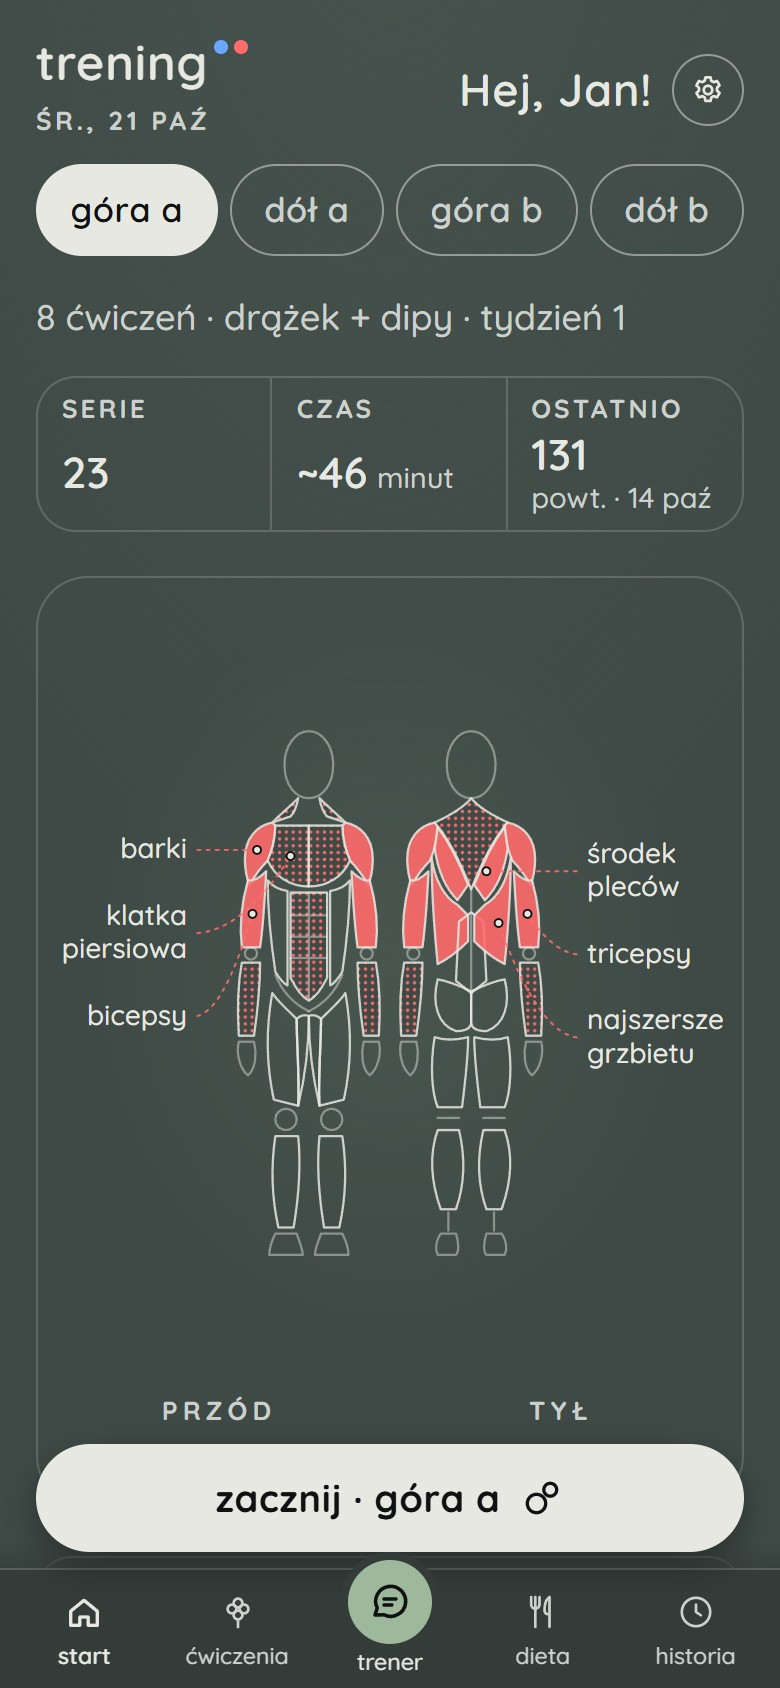
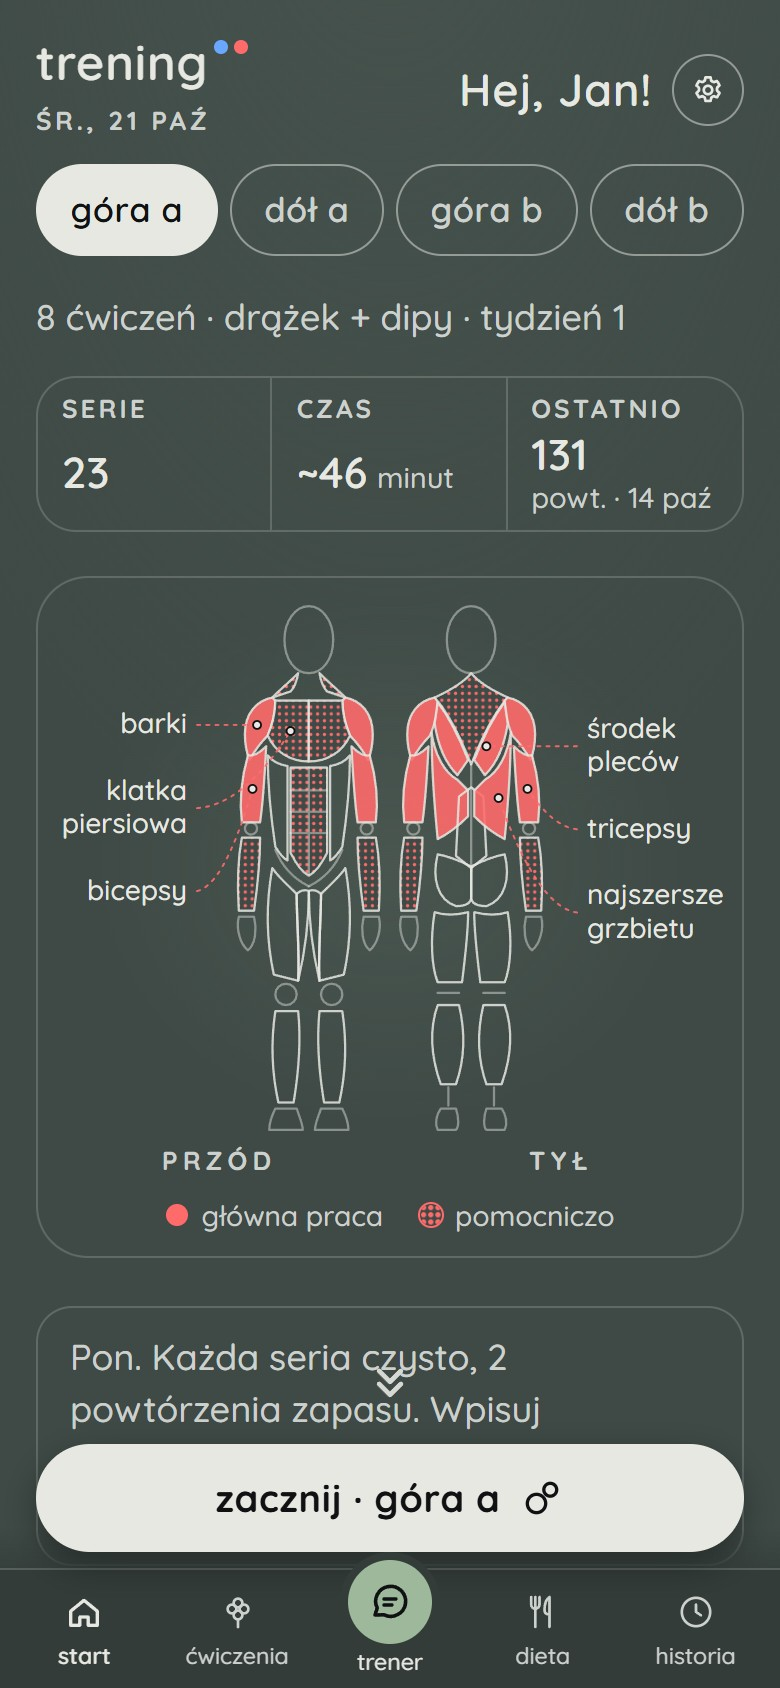
Mniejsze odstępy i strzałki do spisu ćwiczeń (v81)
- start: ramka ma wielkość postaci, pod nią wystaje uwaga trenera i spis ćwiczeń; postać mieści się nad „zacznij”
- strzałki nad „zacznij” podskakują trzy razy, przewijają do spisu ćwiczeń i znikają po przewinięciu (PL i EN)
- wyniki: porównanie, „Pracowały dziś” i uwagi bez pustych przerw na wysokich telefonach
- nowe zrzuty ekranu

diff --git a/index.html b/index.html
@@ -65,6 +65,10 @@ if (location.host === 'kenseikun.github.io') location.replace('https://treningap
   #dolMenu .krag .ico { width: 24px; height: 24px; stroke-width: 1.8 }
   #home > .dock { padding-top: 0; background: linear-gradient(to bottom, rgba(51,60,57,0) 0, rgba(51,60,57,0) 40%, var(--deep) calc(100% - 54px)) }
   #home > .dock .primary { box-shadow: 0 6px 18px rgba(0,0,0,.35) }
+  /* Strzałki nad „zacznij” (od 2026-10-22, pomysł właściciela): niżej jest spis ćwiczeń. Podskakują trzy razy i znikają po przewinięciu. */
+  .wiecej { position: absolute; left: 50%; top: -34px; translate: -50% 0; width: 48px; height: 32px; min-height: 0; padding: 0; border: 0; background: none; color: var(--cream); opacity: .9; animation: wiecej 1.4s ease-in-out .8s 3 }
+  .wiecej .ico { width: 26px; height: 26px; stroke-width: 2.2 } .wiecej[hidden] { display: none } .wiecej:active { background: none; transform: none }
+  @keyframes wiecej { 50% { transform: translateY(6px) } }
   /* Nazwa treningu jest już na zakładce, więc duży tytuł zostaje tylko dla czytnika ekranu. */
   #hName { position: absolute; width: 1px; height: 1px; overflow: hidden; clip: rect(0 0 0 0); white-space: nowrap } #hSub { margin-top: 12px }
   /* Statystyki ciaśniej: liczba i jednostka w jednej linii. */
@@ -129,6 +133,11 @@ if (location.host === 'kenseikun.github.io') location.replace('https://treningap
   .page1 .body, .figpage .body { flex: 1 1 0; height: 0; min-height: 0; max-height: none }
   /* Bez rozpiski pierwsza strona nie rezerwuje wysokości, a zachęta do importu stoi na środku. */
   .noplan .page1 { min-height: 0 }
+  /* Od 2026-10-22: ramka ma wielkość postaci (na wysokim telefonie postać nie pływa w pustej ramce), a pod nią wystaje uwaga trenera
+     i spis ćwiczeń, więc widać, że niżej jest coś jeszcze. Wysokość postaci ograniczona do tego, co mieści się nad „zacznij”. */
+  .page1 { min-height: 0 } .page1 .garden, .page1 .views { flex: 0 1 auto }
+  .page1 .body { flex: 0 1 auto; height: auto; width: 100%; aspect-ratio: 222 / 360; max-height: max(180px, calc(100dvh - 440px - env(safe-area-inset-bottom))) }
+  .page1.resuming .body { max-height: max(150px, calc(100dvh - 540px - env(safe-area-inset-bottom))) }
   /* Druga strona startu i pierwsza strona wyników też mieszczą się na ekranie. Lista przewija się w środku pełnymi wierszami. */
   #plan, .dpage { display: flex; flex-direction: column }
   #plan { height: calc(100dvh - 84px - env(safe-area-inset-bottom)); padding-top: 24px }
@@ -136,9 +145,13 @@ if (location.host === 'kenseikun.github.io') location.replace('https://treningap
      (iPhone SE w Safari) pierwsza strona rośnie i się przewija, zamiast ściskać liczby (patrz #dBlock). */
   #donePage1 { min-height: calc(100dvh - 18px - 132px - env(safe-area-inset-bottom)); display: flex; flex-direction: column; padding-bottom: 12px }
   .dpage { height: calc(100dvh - 132px - env(safe-area-inset-bottom)) }
-  #donePage3 { height: auto; min-height: calc(100dvh - 132px - env(safe-area-inset-bottom)) }
+  #donePage3 { height: auto } /* od 2026-10-22 bez pełnej wysokości: pole uwag nie rozciąga się na pół ekranu */
+  /* Strona „Pracowały dziś”: ramka też ma wielkość postaci, bez pustego pola pod nią (od 2026-10-22). */
+  .figpage { height: auto } .figpage .garden, .figpage .views { flex: 0 1 auto }
+  .figpage .body { flex: 0 1 auto; height: auto; width: 100%; aspect-ratio: 222 / 360; max-height: max(200px, calc(100dvh - 300px - env(safe-area-inset-bottom))) }
+  #donePage2 { height: auto; max-height: calc(100dvh - 132px - env(safe-area-inset-bottom)) } #donePage2 .fit { flex: 0 1 auto; overflow-y: auto }
   .dpage > h2:first-child { margin-top: 16px }
-  #donePage3 textarea { flex: 1 0 120px }
+  #donePage3 textarea { flex: none; min-height: 140px }
   .figpage { padding-bottom: 12px }
   #plan > .note { margin: 0 0 4px; flex: none }
   .fit { flex: 1 1 0; min-height: 0 }
@@ -489,7 +502,7 @@ if (location.host === 'kenseikun.github.io') location.replace('https://treningap
   }
   @media (max-height: 600px) { #work .mus, .mot, #work .mv figcaption, .page1 .key { display: none } } /* legenda animacji jest w karcie ćwiczenia; na starcie zasłaniałby ją „zacznij” */
   @media (prefers-reduced-motion: reduce) {
-    .plot *, .float span, .strip i, .bump, .body .ld { animation: none !important }
+    .plot *, .float span, .strip i, .bump, .body .ld, .wiecej { animation: none !important }
     .primary .ico { transition: none; translate: none !important }
     .breath .lung { animation: none; fill-opacity: .6 }
   }
@@ -563,7 +576,7 @@ if (location.host === 'kenseikun.github.io') location.replace('https://treningap
     <button class="pos" data-for="hParts" hidden></button>
   </div>
   <div id="empty" class="gate" hidden><h1 class="float" id="eTitle"></h1><p class="stone" id="eText"></p></div>
-  <div class="dock"><button id="startBtn" class="primary"></button>
+  <div class="dock"><button id="wiecej" class="wiecej" hidden aria-label="pokaż spis ćwiczeń" data-ta="moreList"><svg class="ico" viewBox="0 0 24 24"><path d="m7 6 5 5 5-5M7 12l5 5 5-5"/></svg></button><button id="startBtn" class="primary"></button>
     <nav id="dolMenu" aria-label="Menu" data-ta="menu">
       <button id="navStart" aria-current="page"><svg class="ico" viewBox="0 0 24 24"><path d="M4 11.5 12 5l8 6.5V20h-5.5v-5h-5v5H4Z"/></svg><span data-t="menuStart">start</span></button>
       <button data-sheet="imp"><svg class="ico" viewBox="0 0 24 24"><path d="M7.5 15.5h9a3.6 3.6 0 0 0 .4-7.2 5 5 0 0 0-9.6-1.3A4.2 4.2 0 0 0 7.5 15.5Z"/><path d="M12 11.5v8m-2.8-2.8 2.8 2.8 2.8-2.8"/></svg><span data-t="menuImport">import</span></button>
@@ -954,7 +967,7 @@ function renderHome() {
   const p = plans[sel], prev = prevOf(p.name), week = p.name.match(/^T(\d+)/)?.[1];
   floatText($('hName'), short(p.name).toLowerCase(), !plotted);
   $('hSub').textContent = [t('nExercises', p.items.length), p.name.match(/\((.*)\)\s*$/)?.[1], week && t('week', week)].filter(Boolean).join(' · '); // bez dnia tygodnia: data jest u góry (2026-10-22)
-  drawFigure($('hFig'), muscleLoad(p.items), { plot: !plotted });
+  drawFigure($('hFig'), muscleLoad(p.items), { plot: !plotted }); wiecej();
   plotted = true;
   $('hBlock').innerHTML = cells([[t('sets'), steps(p).length], [t('time'), `~${estimate(p)}`, t('minutes', estimate(p))], [t('lastTime'), prev ? prev.reps : '—', prev ? t('repsOn', day(prev.t0)) : t('none')]]);
   $('hNote').hidden = !p.note; $('hNote').textContent = p.note;
@@ -1018,6 +1031,10 @@ function openSheet(k) {
   for (const s of Object.keys(SHEETS)) $('p-' + s).hidden = s !== k;
   $('sheet').showModal(); $('sheet').focus();
 }
+// Strzałki nad „zacznij”: widać je na górze ekranu startowego, gdy jest rozpiska; po przewinięciu znikają.
+const wiecej = () => { $('wiecej').hidden = $('home').hidden || !allPlans().length || scrollY > 40; };
+addEventListener('scroll', wiecej, { passive: true });
+$('wiecej').onclick = () => $('plan').scrollIntoView({ behavior: 'smooth' });
 $('dolMenu').onclick = e => { const k = e.target.closest('[data-sheet]')?.dataset.sheet; if (k) openSheet(k); else if (e.target.closest('#navStart')) scrollTo({ top: 0, behavior: 'smooth' }); };
 $('setBtn').onclick = () => openSheet('set');
 $('sheetClose').onclick = () => $('sheet').close();

diff --git a/strings.js b/strings.js
@@ -52,7 +52,7 @@ globalThis.STR = {
     tour6: "Raz dziennie zajrzyj tu na krótki raport: sen, woda, samopoczucie. Dzięki niemu trener jeszcze lepiej dopasuje plan do Ciebie.",
     tour7: "Masz pytanie albo coś Cię boli? Śmiało, napisz do trenera. Zielony przycisk na środku menu od razu otwiera rozmowę.",
     tour8: "Kółko zębate w prawym górnym rogu to ustawienia. Zmienisz tam ankietę, powiadomienia i język, a w każdej chwili wrócisz też do tego samouczka.",
-    newLookLbl: 'nowy wygląd', gotIt: 'rozumiem', menuStart: 'start', menuTrainer: 'trener',
+    newLookLbl: 'nowy wygląd', gotIt: 'rozumiem', menuStart: 'start', menuTrainer: 'trener', moreList: 'pokaż spis ćwiczeń',
     newLook: "Zmieniamy się dla Ciebie! Odświeżyliśmy wygląd aplikacji, żeby była czytelniejsza i wygodniejsza. Chcesz wiedzieć więcej? Samouczek uruchomisz w ustawieniach, pod tym przyciskiem.",
     tour9: "Wszystko gotowe! Trzymamy kciuki za Twój trening. Każdy krok się liczy.", dietNone: 'Trener jeszcze nie przygotował dla Ciebie diety. Gdy to zrobi, pojawi się tutaj sama.', dietDays: 'pn wt śr cz pt sb nd', dietToday: 'dziś', dietPick: 'do wyboru', dietKcal: 'kalorie', dietProtein: 'białko', dietFat: 'tłuszcz', dietCarbs: 'węglowodany', dietEaten: (n, m) => `zjedzone ${n} z ${m}`, dietAte: 'zjedzone', dietEatHint: 'Zaznacz propozycję, którą zjesz, albo wpisz własny posiłek, a potem wyślij to trenerowi. Wczorajsze posiłki uzupełnisz w zakładce wczorajszego dnia.', dietSend: 'wyślij trenerowi', shopBtn: 'lista zakupów na tydzień', shopTitle: 'lista zakupów', shopHint: 'Składniki pierwszej propozycji każdego posiłku na cały tydzień. Odhacz to, co już masz.', shopCopy: 'kopiuj listę', progTitle: 'Postęp ćwiczenia', progKg: 'największy ciężar', progBest: 'najlepsza seria', progOne: 'Wykres pojawi się po drugim treningu z tym ćwiczeniem.', msgFrom: 'wiadomość od trenera', dietUpdate: 'zaktualizuj u trenera', dietSentOk: 'wysłano do trenera', dietYesterday: 'wczoraj', dietSendFail: 'Nie udało się wysłać: chwilowy problem z dostępem do serwera. Spróbuj za kilka minut.', dietOwn: 'własny posiłek', dietOwnEmpty: 'Najpierw wpisz, co jesz.',
     dietFine: 'Coś Ci nie służy albo czegoś nie jesz? Napisz do trenera, a poprawi dietę.',
@@ -155,7 +155,7 @@ globalThis.STR = {
     tour6: "Once a day, stop by for a short report: sleep, water, how you feel. It helps your trainer tailor the plan even better to you.",
     tour7: "Got a question or does something hurt? Feel free to message your trainer. The green button in the middle of the menu opens the chat right away.",
     tour8: "The gear in the top right corner opens settings. There you can update your questionnaire, notifications and language, and come back to this tutorial any time.",
-    newLookLbl: 'new look', gotIt: 'got it', menuStart: 'home', menuTrainer: 'trainer',
+    newLookLbl: 'new look', gotIt: 'got it', menuStart: 'home', menuTrainer: 'trainer', moreList: 'show the exercise list',
     newLook: "We're changing for you! We've refreshed the app's look to make it clearer and easier to use. Want to know more? You'll find the tutorial in settings, behind this button.",
     tour9: "You're all set! We're keeping our fingers crossed for your workout. Every step counts.", dietNone: 'Your trainer has not prepared a diet for you yet. When they do, it will appear here on its own.', dietDays: 'mo tu we th fr sa su', dietToday: 'today', dietPick: 'pick one', dietKcal: 'calories', dietProtein: 'protein', dietFat: 'fat', dietCarbs: 'carbs', dietEaten: (n, m) => `eaten ${n} of ${m}`, dietAte: 'eaten', dietEatHint: "Tick the option you eat or type in your own meal, then send it to your trainer. You can fill in yesterday's meals on yesterday's tab.", dietSend: 'send to trainer', shopBtn: 'shopping list for the week', shopTitle: 'shopping list', shopHint: 'Ingredients of the first option of every meal for the whole week. Tick off what you already have.', shopCopy: 'copy list', progTitle: 'Exercise progress', progKg: 'heaviest weight', progBest: 'best set', progOne: 'The chart will appear after your second workout with this exercise.', msgFrom: 'message from your trainer', dietUpdate: 'update for trainer', dietSentOk: 'sent to your trainer', dietYesterday: 'yesterday', dietSendFail: "Couldn't send: there's a temporary problem reaching the server. Try again in a few minutes.", dietOwn: 'your own meal', dietOwnEmpty: 'Type what you eat first.',
     dietFine: "Something doesn't agree with you, or there's something you don't eat? Tell your trainer and they'll adjust the diet.",

diff --git a/sw.js b/sw.js
@@ -1,5 +1,5 @@
 // Offline: najpierw sieć (świeże rozpiski i aplikacja), a bez sieci ostatnia wersja z cache.
-const C = 'trening-v80';
+const C = 'trening-v81';
 const SHELL = ['./', 'index.html', 'strings.js', 'exercises.js', 'logic.js', 'moves.js', 'manifest.webmanifest', 'icons/icon-192px.png', 'icons/icon-512px.png', 'icons/badge-96.png',
   'fonts/quicksand-latin.woff2', 'fonts/quicksand-latin-ext.woff2'];
 // Sieć zawsze z pytaniem do serwera o aktualną wersję. Bez tego przeglądarka przez 10 minut oddaje pliki z własnej pamięci
